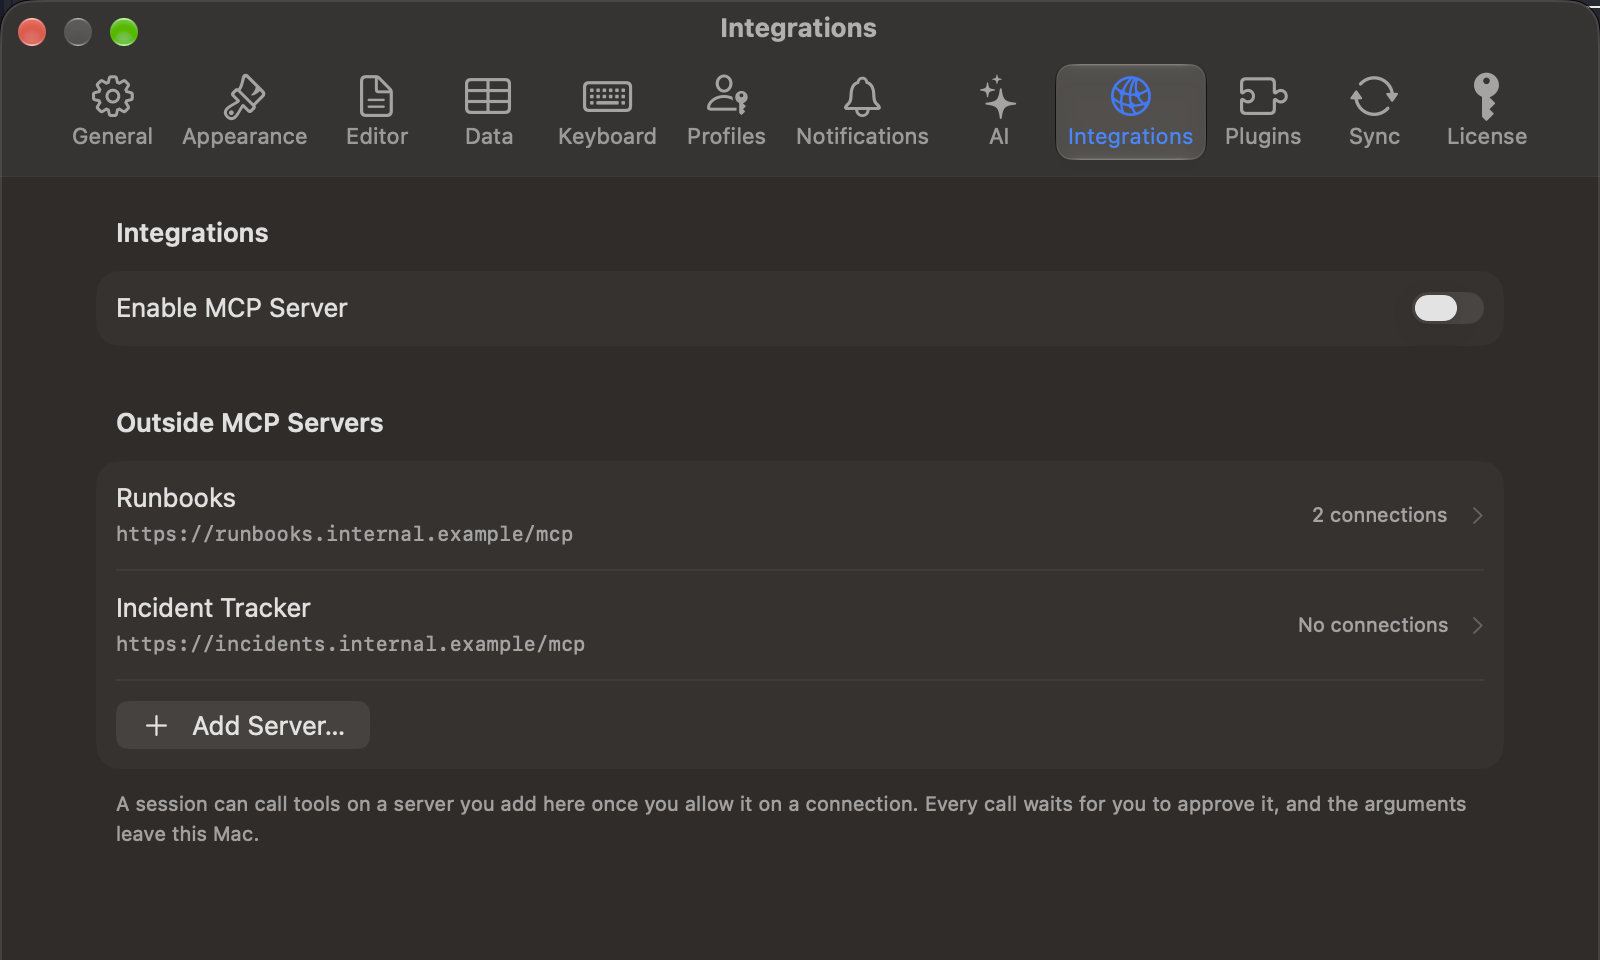
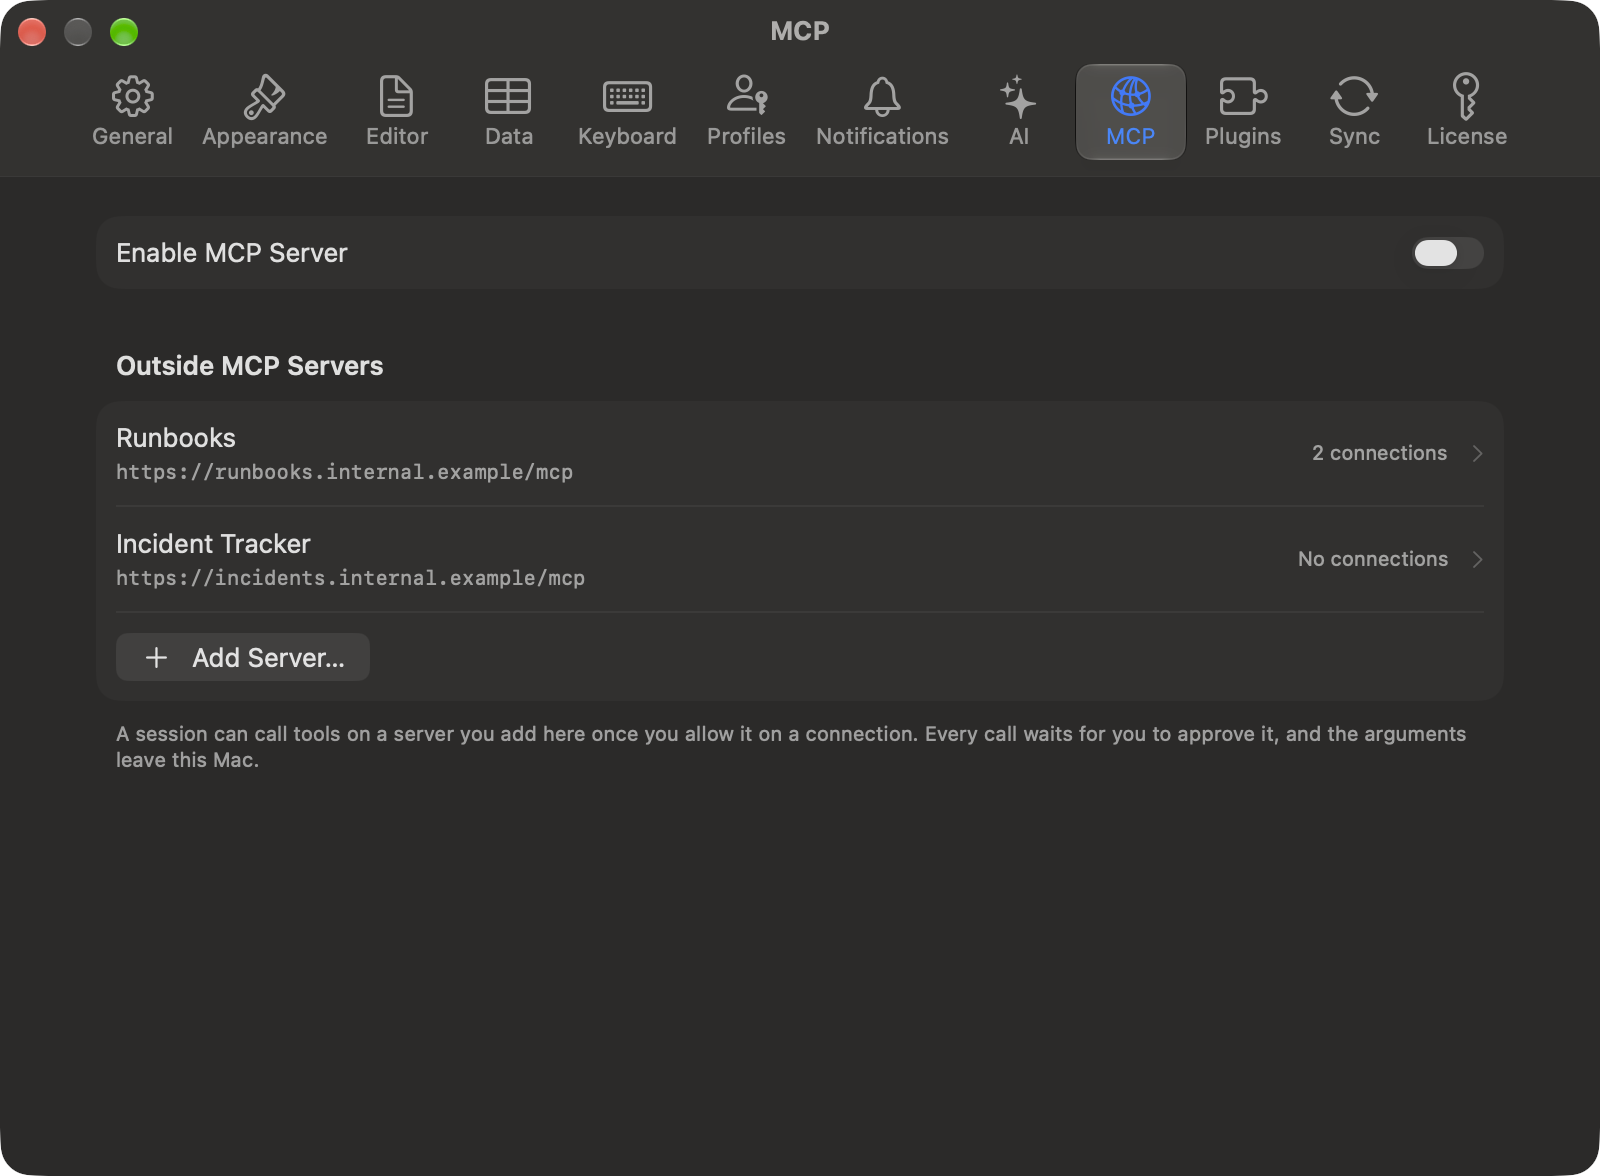
docs(settings): retake the Settings screenshots for the MCP pane (#3342)

diff --git a/TableProUITests/SettingsDeeplinkUITests.swift b/TableProUITests/SettingsDeeplinkUITests.swift
@@ -5,14 +5,11 @@ final class SettingsDeeplinkUITests: UITestCase {
     private let englishArguments = ["-AppleLanguages", "(en)"]
 
     func testASettingsLinkOpensItsPane() throws {
-        let app = try launchOpeningURL("tablepro://settings/license", arguments: englishArguments)
+        try assertLink("tablepro://settings/license", opensPaneTitled: "License")
+    }
 
-        let settingsWindow = app.windows["settings"]
-        XCTAssertTrue(settingsWindow.waitToExist(timeout: 10))
-        XCTAssertTrue(
-            waitForPredicate(timeout: 5) { settingsWindow.title == "License" },
-            "The link has to open the License pane, the window is titled \(settingsWindow.title)"
-        )
+    func testTheMCPLinkOpensTheMCPPane() throws {
+        try assertLink("tablepro://settings/mcp", opensPaneTitled: "MCP")
     }
 
     func testAnUnknownPaneOpensTheLastUsedPane() throws {
@@ -23,6 +20,24 @@ final class SettingsDeeplinkUITests: UITestCase {
         XCTAssertTrue(
             waitForPredicate(timeout: 5) { settingsWindow.title == "General" },
             "A fresh sandbox has no last-used pane, so Settings opens on General, not \(settingsWindow.title)"
+        )
+    }
+
+    private func assertLink(
+        _ link: String,
+        opensPaneTitled title: String,
+        file: StaticString = #filePath,
+        line: UInt = #line
+    ) throws {
+        let app = try launchOpeningURL(link, arguments: englishArguments)
+
+        let settingsWindow = app.windows["settings"]
+        XCTAssertTrue(settingsWindow.waitToExist(timeout: 10), file: file, line: line)
+        XCTAssertTrue(
+            waitForPredicate(timeout: 5) { settingsWindow.title == title },
+            "\(link) has to open the \(title) pane, the window is titled \(settingsWindow.title)",
+            file: file,
+            line: line
         )
     }
 }
